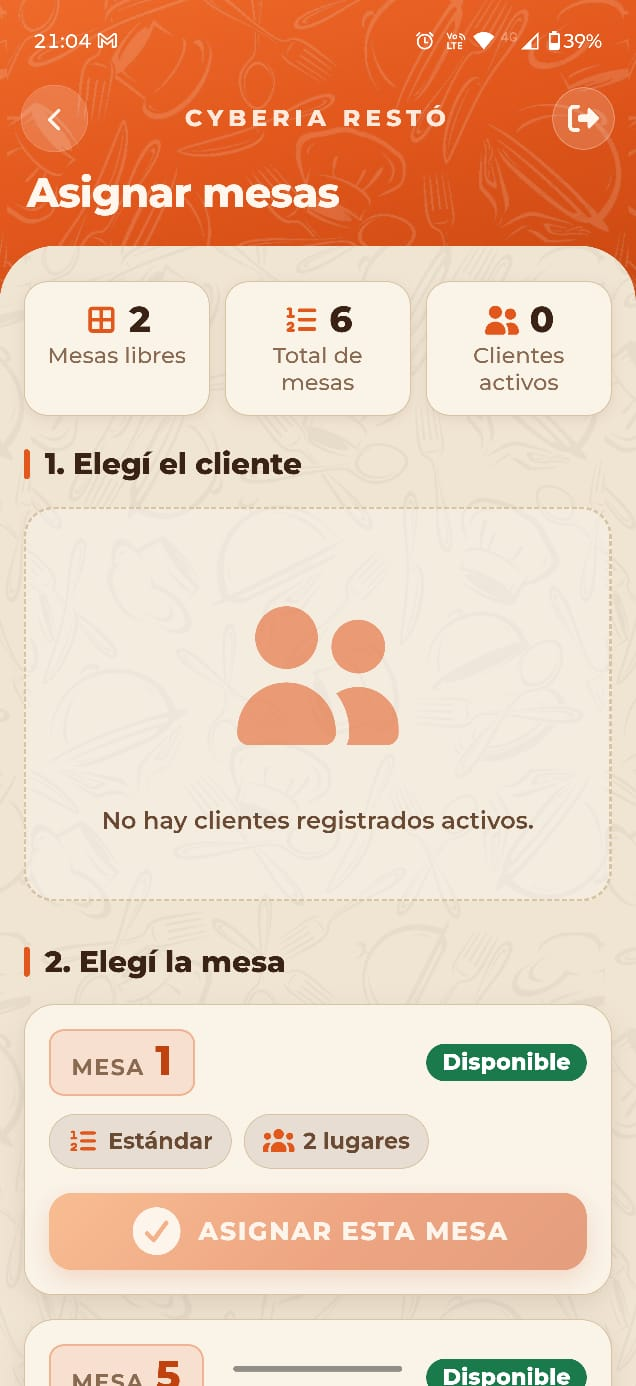
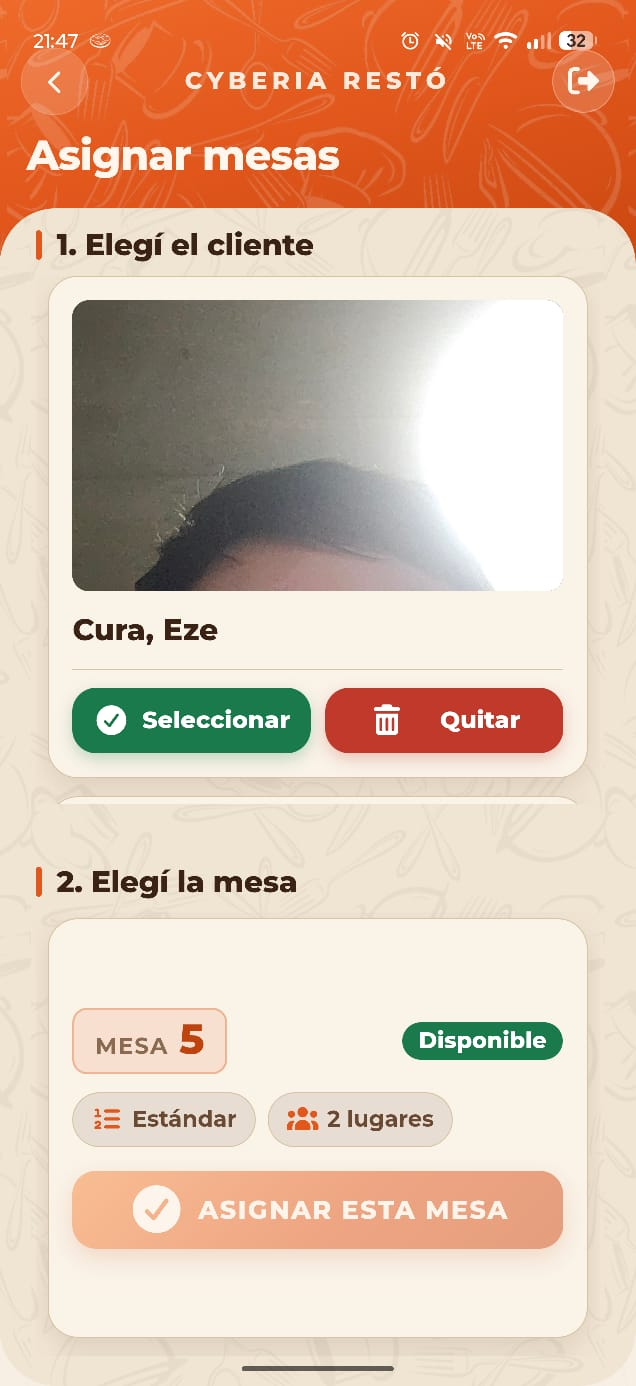
Corregido Readme

diff --git a/README.md b/README.md
@@ -330,7 +330,7 @@ npx cap open android
 
 ### Pantallas de Inicio
 
-<img src="assets\screenshots/Screenshot_inicio_cliente.jpeg" width="600" alt="Pantalla de inicio"/> <img src="assets\screenshots/Screenshot_pantalla_inicio_dueño.jpeg" width="600" alt="Pantalla de inicio Dueño"/> <img src="assets\screenshots/Screenshot_pantalla_inicio_meitre.jpeg" width="600" alt=""/> <img src="assets\screenshots\" width="600" alt="Pantalla de inicio Meitre"/> <img src="assets\screenshots/Screenshot_inicio_cocinero.jpeg" width="600" alt="Pantalla de inicio Cocinero"/> 
+<img src="assets\screenshots/Screenshot_inicio_cliente.jpeg" width="600" alt="Pantalla de inicio"/> <img src="assets\screenshots/Screenshot_pantalla_inicio_dueño.jpeg" width="600" alt="Pantalla de inicio Dueño"/> <img src="assets\screenshots\Screenshot_pantalla_inicio_meitre.jpeg" width="600" alt="Pantalla de inicio Meitre"/> <img src="assets\screenshots\Screenshot_pantalla_inicio_cocinero.jpeg" width="600" alt="Pantalla de inicio Cocinero"/> 
 
 ---
 
@@ -357,7 +357,7 @@ npx cap open android
 
 ### Pantalla Consultas al Mozo
 
-<img src="assets\screenshots\Screenshot_consultas" width="600" alt="Consultas"/> <img src="assets\screenshots\Screenshot_consultas_mensaje" width="600" alt="Consultas Mensajes"/>
+<img src="assets\screenshots\Screenshot_consultas.jpeg" width="600" alt="Consultas"/> <img src="assets\screenshots\Screenshot_consultas_mensaje.jpeg" width="600" alt="Consultas Mensajes"/>
 
 ---
 
